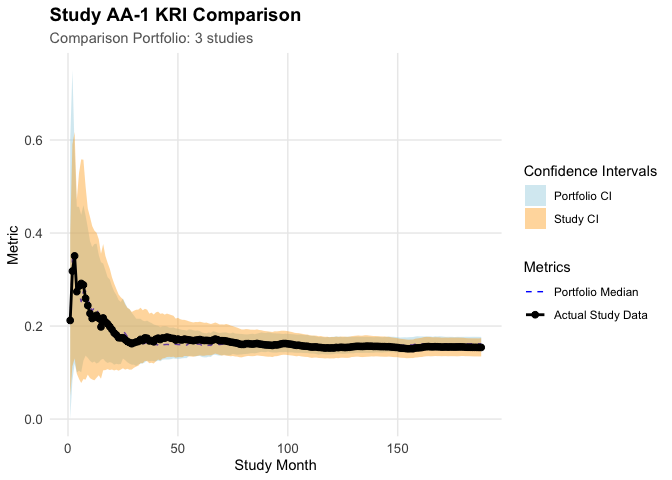
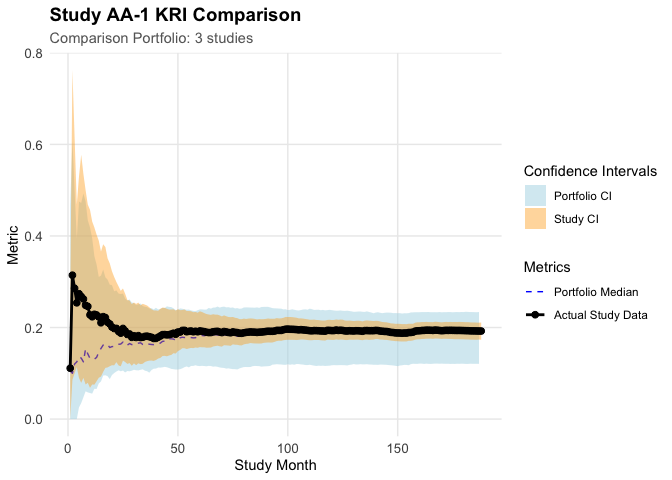
fix bug in docs, oversample patient with few AE

diff --git a/README.md b/README.md
@@ -34,6 +34,7 @@ the script-based approach without YAML workflows.
 
 ``` r
 library(dplyr)
+#> Warning: package 'dplyr' was built under R version 4.4.3
 #> 
 #> Attaching package: 'dplyr'
 #> The following objects are masked from 'package:stats':
@@ -64,11 +65,15 @@ lPortfolio <- SimulatePortfolio(
   dfConfig = tibble(
     studyid = c("AA-1", "AA-2", "AA-3", "AA-4"),
     nSubjects = c(500, 750, 150, 200),
-    strOversamplDomain = rep("Raw_AE", 4),
+    strOversampleDomain = rep("Raw_AE", 4),
     vOversamplQuantileRange_min = c(0, 0, 0, 0),
     vOversamplQuantileRange_max = c(1, 1, 1, 0.75)
   )
 )
+#> Filtered to 1016 subjects with Raw_AE records in 0.00-1.00 quantile range (1-31 records)
+#> Filtered to 1016 subjects with Raw_AE records in 0.00-1.00 quantile range (1-31 records)
+#> Filtered to 1016 subjects with Raw_AE records in 0.00-1.00 quantile range (1-31 records)
+#> Filtered to 773 subjects with Raw_AE records in 0.00-0.75 quantile range (1-6 records)
 
 # Calculate site-level counts by month for AE per visit
 dfInput <- Input_CountSiteByMonth(
@@ -82,7 +87,7 @@ dfInput <- Input_CountSiteByMonth(
   strSubjectCol = "subjid",
   strNumeratorDateCol = "aest_dt",
   strDenominatorDateCol = "visit_dt",
-  nMinDenominator = 25  # Normalize dates at the threshold
+  nMinDenominator = 25 # Normalize dates at the threshold
 )
 
 # Aggregate to study-level cumulative counts
@@ -103,7 +108,7 @@ dfStudyRef <- tibble(
 )
 
 dfBoundsRef <- Analyze_StudyKRI_PredictBoundsRef(dfInput, dfStudyRef)
-#> Resampling with minimum group count: 76
+#> Calculated minimum group count: 69
 
 # Plot AA-1 vs reference portfolio
 Visualize_StudyKRI(
